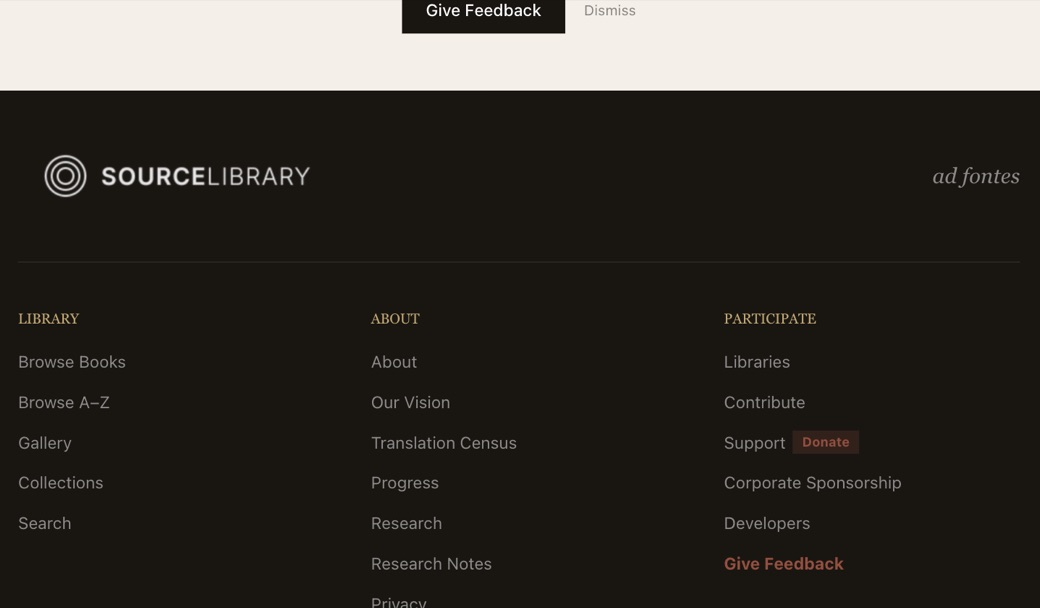
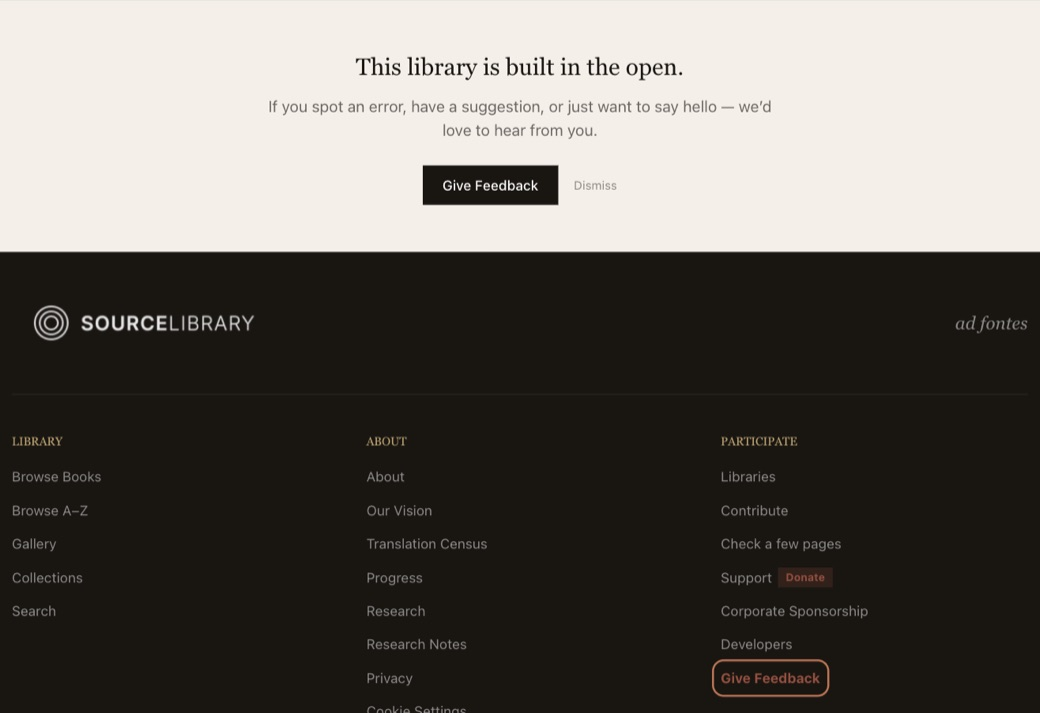
edit(email): Derek's cuts, and outline the footer link
Copy, per Derek 2026-08-04 — all three are his calls:

  · dropped "Can you trust it? ... Don't trust any translation ..." Worth
    recording that this was his own line and the most quotable sentence in the
    letter; he dropped it anyway. If it returns it should return from him.
  · dropped the "what are you researching" ask (Claude's) and its "hit reply"
    closer.
  · replaced both with one line of his: "Or just reply and tell me your
    feedback. I'd love to know what you find useful and what you think needs
    improvement."

The letter now carries a single ask and one soft invitation to reply, which is
what the newsletter-queue doc's one-ask-per-letter rule wanted in the first
place. ~290 words.

Screenshot: footer.jpg re-shot with a rust outline around the FOOTER link only.
Derek asked for a box and he is right that it needs one — it is a faint link
among a dozen siblings in the Participate column, which is precisely why a
reader slides past it and why the letter has to point at it twice. The callout
button above is solid black and needs no help; boxing both would have flattened
the distinction the sentence is drawing. The outline is drawn in the browser for
the screenshot and does not exist on the site; the alt text says so, and the
file header records it so nobody "fixes" the site to match the picture.

Needs a prod deploy before sending — footer.jpg changed.

diff --git a/scripts/email/feedback-newsletter-2026-08.body.html b/scripts/email/feedback-newsletter-2026-08.body.html
@@ -25,9 +25,16 @@
   memory feedback_dont_change_authored_copy: authored marketing copy is used as
   written or sent back for a decision, never silently improved.
 
-  Two blocks are marked ADDED BY CLAUDE below — the in-reader translation
-  prompt, and the closing "what are you researching" ask Derek requested. Those
-  are proposals in his voice and are his to cut or rewrite.
+  ONE block is marked ADDED BY CLAUDE below — the in-reader translation prompt.
+  It is a proposal in Derek's voice and is his to cut.
+
+  Derek cut three things on 2026-08-04, all deliberate, do not reinstate:
+    · "Can you trust it? ... Don't trust any translation ..." — his own line,
+      and the most quotable in the letter. He dropped it anyway. If it ever
+      comes back it should come back from him.
+    · the "what are you researching" ask (Claude's), and its "hit reply" closer.
+  They were replaced by one line: "Or just reply and tell me your feedback."
+  The letter now carries a single ask and one soft invitation to reply.
   ─────────────────────────────────────────────────────────────────────────────
 
   BOOK COUNT — resolved 2026-08-01. Derek chose 19,420, which is the figure the
@@ -40,6 +47,12 @@
   SCREENSHOTS live in public/email/feedback-2026-08/. footer.jpg deliberately
   shows the callout button AND the footer link in one frame, because the letter
   points at both.
+
+  footer.jpg carries a drawn outline around the FOOTER link only — it is a
+  faint rust-coloured link among a dozen others and readers slid past it. The
+  callout button above it is a solid black button and needs no help. The outline
+  is an annotation added in the browser for the screenshot; it does not exist on
+  the site.
 
   modal.jpg holds a REAL reader report, verbatim, on the real page it was sent
   from: "I'm seeing chapter 4 on the image page and chapter 5 in the text",
@@ -87,7 +100,7 @@
 </p>
 
 <img src="https://sourcelibrary.org/email/feedback-2026-08/footer.jpg"
-     alt="The foot of a Source Library page: the Give Feedback button above, and below it the dark site footer with a second Give Feedback link in the Participate column."
+     alt="The foot of a Source Library page: the Give Feedback button above, and below it the dark site footer with a second Give Feedback link in the Participate column, outlined to point it out."
      width="472"
      style="width: 100%; max-width: 472px; height: auto; display: block; margin: 0 0 20px; border: 1px solid #e8e4dc;" />
 
@@ -115,43 +128,16 @@
      style="width: 100%; max-width: 472px; height: auto; display: block; margin: 0 0 28px; border: 1px solid #e8e4dc;" />
 <!-- /ADDED BY CLAUDE -->
 
-<p style="margin: 0 0 20px;">
+<p style="margin: 0 0 28px;">
   I really want to engage the reading community. Not everyone is interested in reading
   texts that are hundreds of years old. Yet. I&rsquo;d love to make the reading
   experience as pleasant and trustworthy as possible.
 </p>
 
 <p style="margin: 0 0 28px;">
-  Can you trust it? Well, my attitude is &ldquo;Don&rsquo;t trust any
-  translation.&rdquo; But by providing AI translations next to the original source, it
-  means that if you don&rsquo;t trust the translation, you can do it again yourself!
+  Or just reply and tell me your feedback. I&rsquo;d love to know what you find useful
+  and what you think needs improvement.
 </p>
-
-<!-- ADDED BY CLAUDE — the "what are you researching" ask Derek requested on
-     2026-08-01. Written in his voice; his to rewrite. It invites replies to a
-     mailbox, so someone has to be reading them.
-
-     This is the letter's ONE secondary ask. The volunteer recruitment that
-     briefly sat above it has moved to
-     scripts/email/queued/volunteer-readers.body.html — see
-     .claude/docs/newsletter-queue.md. Three competing calls to action meant
-     the reader did the cheapest one or none; and unlike volunteering, a
-     question costs one reply and creates no obligation we cannot yet meet.
-     Do not add a third ask back. -->
-<hr style="border: none; border-top: 1px solid #e8e4dc; margin: 0 0 28px;" />
-
-<p style="margin: 0 0 20px;">
-  One last thing, which is the part I am most curious about. What are you actually
-  researching? I would love to know what brought you here, what you have been looking
-  for and could not find, and what you would read tomorrow if somebody put it into
-  English.
-</p>
-
-<p style="margin: 0 0 28px;">
-  Just hit reply and tell me. I read those too, and it genuinely changes what we go
-  and get next.
-</p>
-<!-- /ADDED BY CLAUDE -->
 
 <p style="margin: 0 0 32px; text-align: center;">
   <a href="https://sourcelibrary.org"
